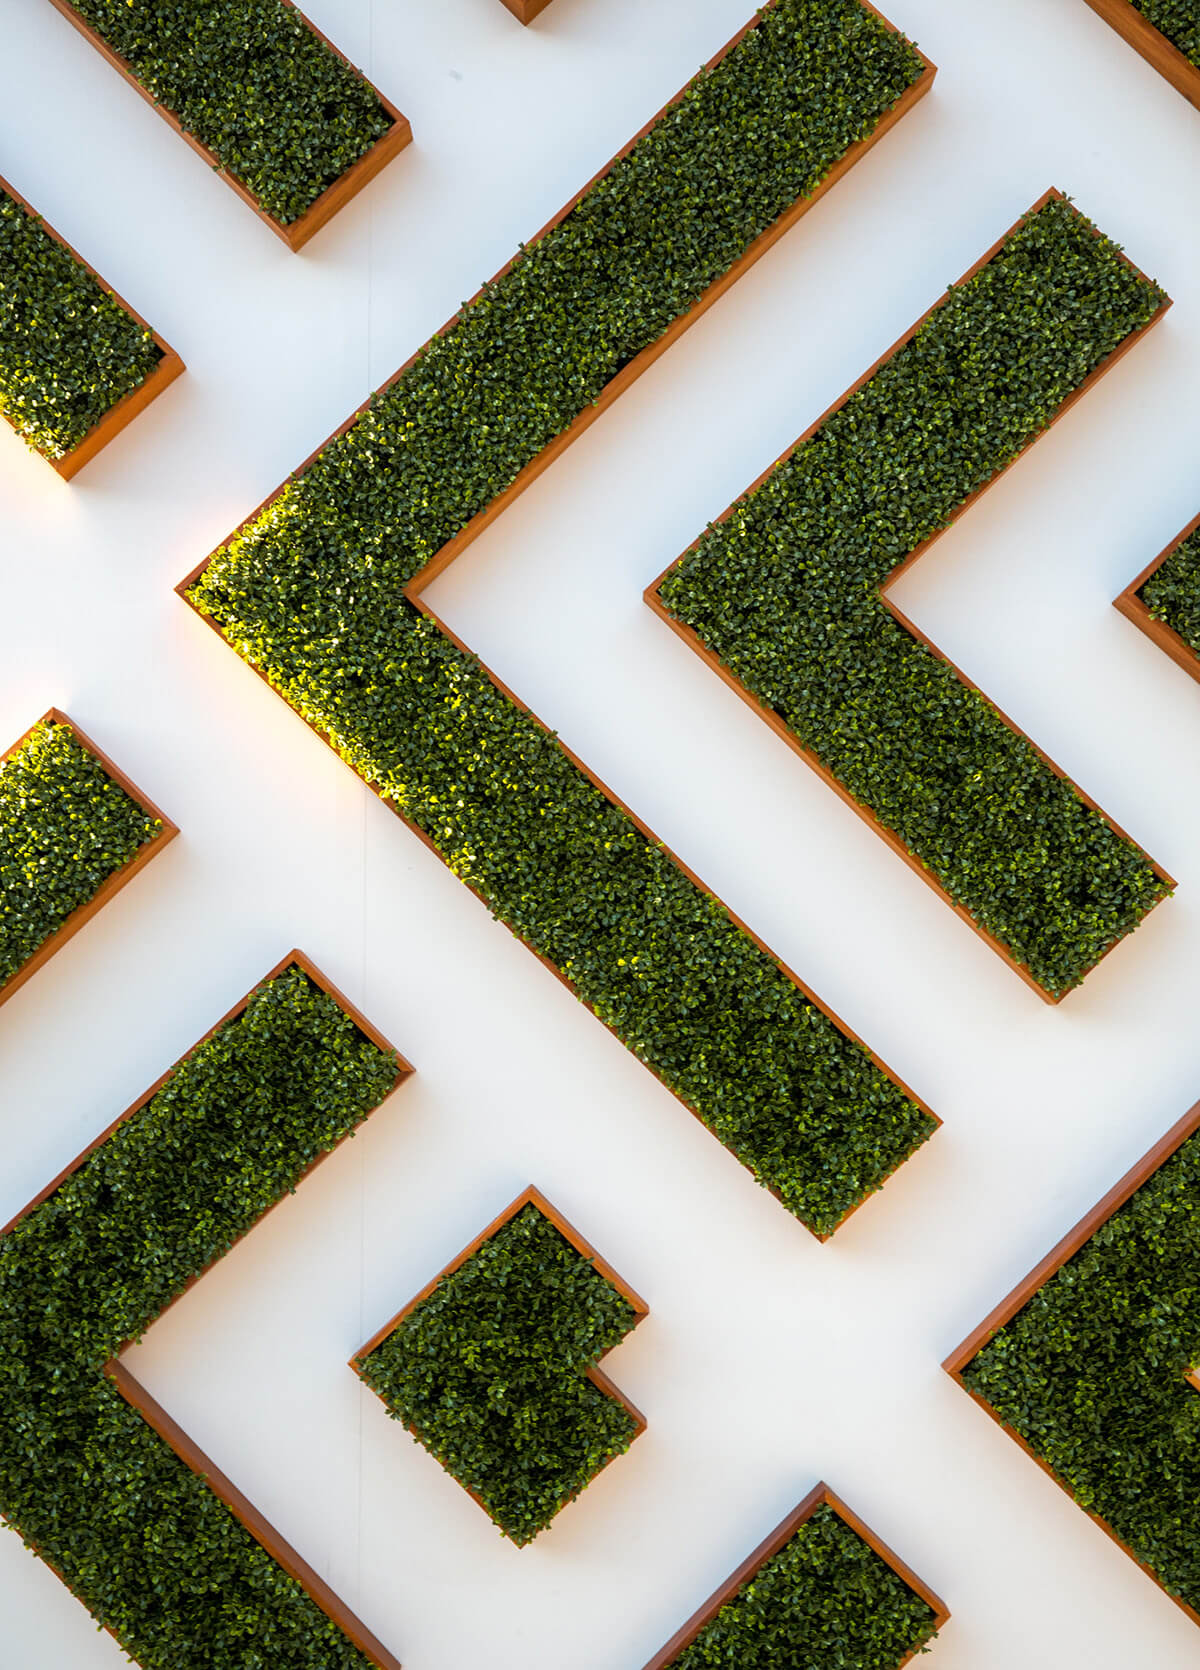
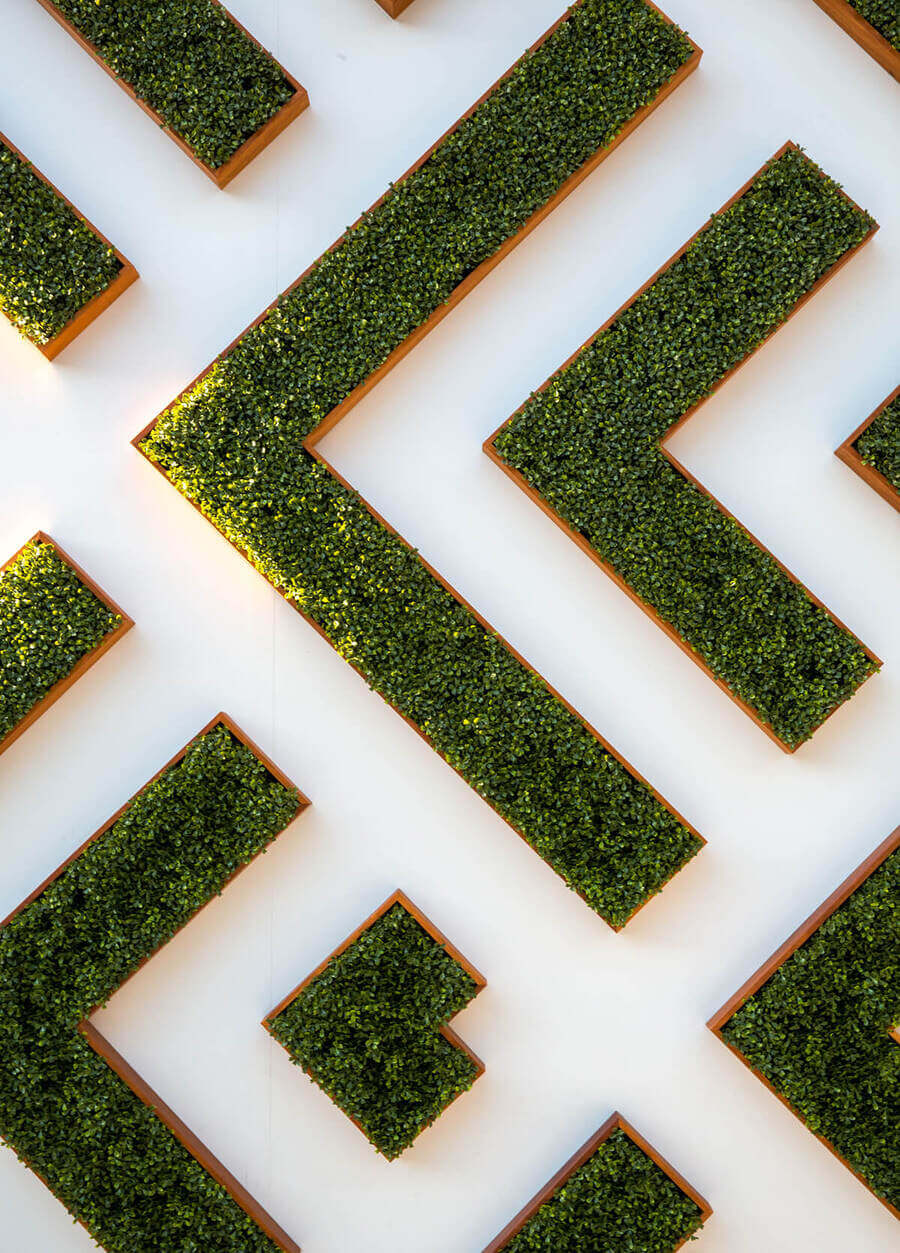
images size

diff --git a/rekrutacja/index.html b/rekrutacja/index.html
@@ -201,7 +201,7 @@
   <div class="container">
     <div class="row">
       <div class="col-lg-6 about-img-wrapper">
-        <img class="about-img" src="./src/images/about.png" alt="photo">
+        <img class="about-img" src="./src/images/about.jpg" alt="photo">
       </div>
       <div class="col-lg-6">
         <h2 class="heading-top animation-left">O firmie</h2>
